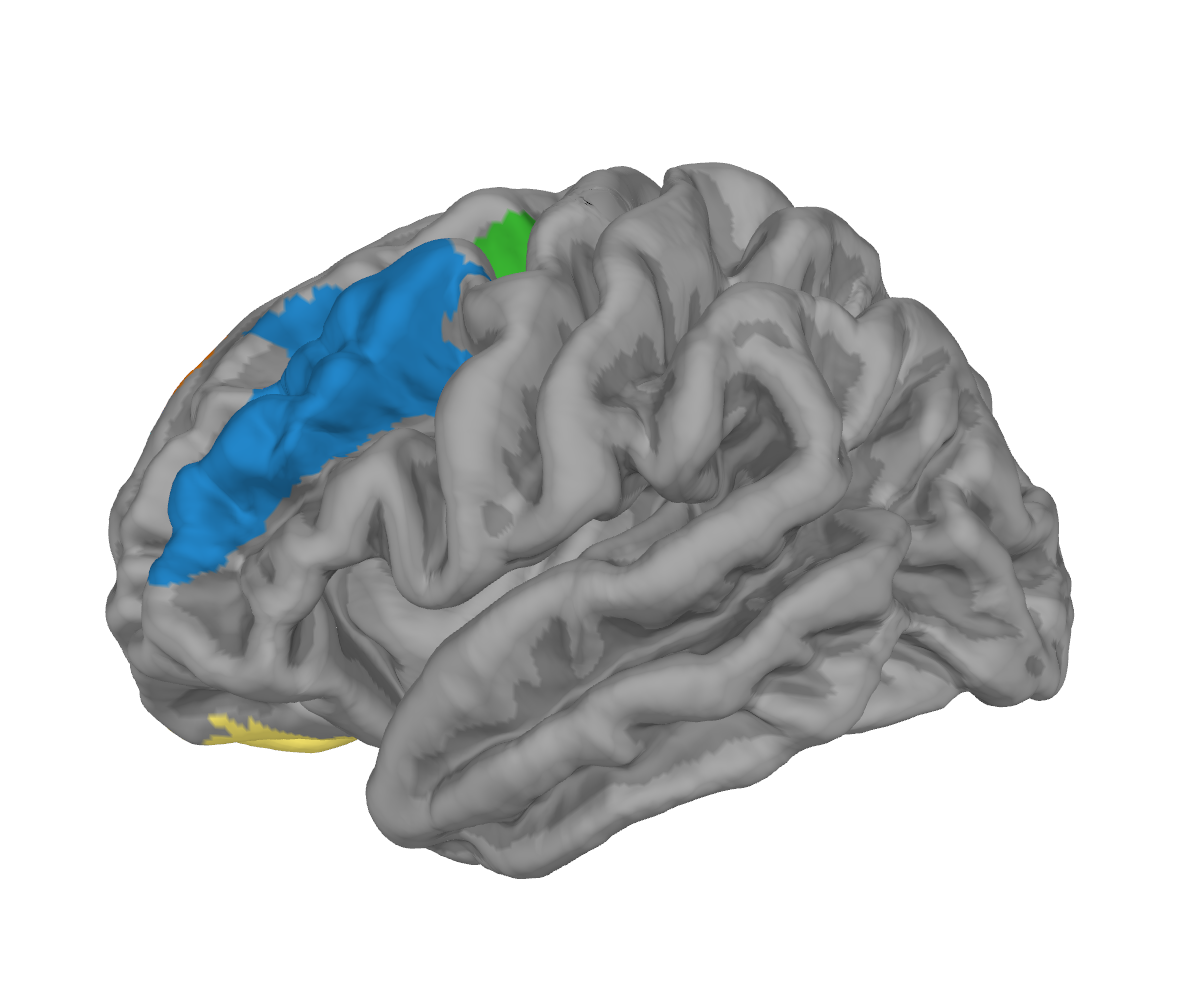
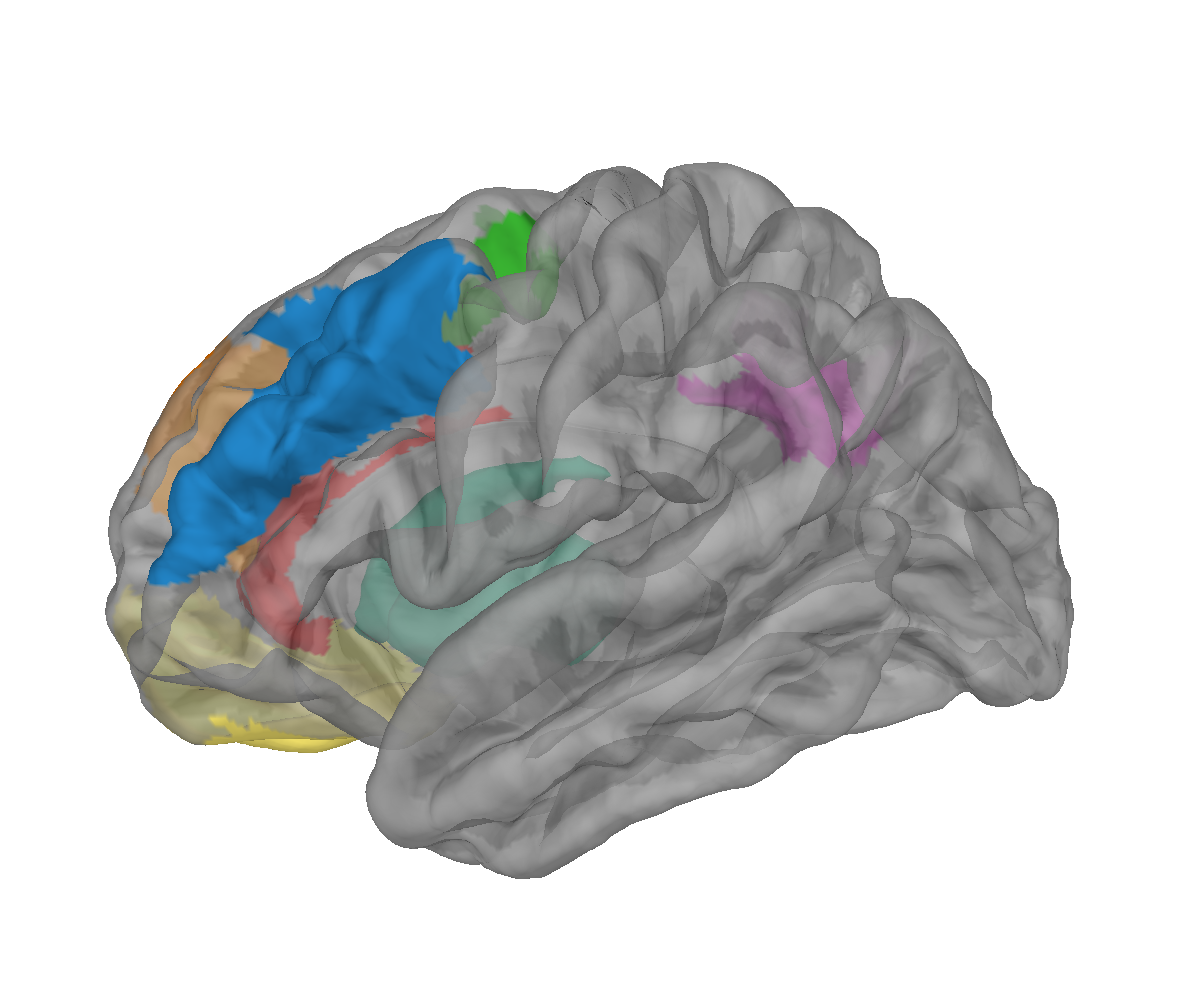
update legend order

diff --git a/src/analysis/vis/brain_figure_glasser_separate_svgs_lateral_medial_view_less_bold.py b/src/analysis/vis/brain_figure_glasser_separate_svgs_lateral_medial_view_less_bold.py
@@ -203,7 +203,7 @@ def soften_lighting(brain):
 # Cortex transparency: 1.0 = fully opaque (deep structures hidden),
 # lower = see-through. ~0.3–0.45 lets the basal ganglia show through
 # while the opaque ROI fills stay bold.
-BRAIN_ALPHA = 0.4
+BRAIN_ALPHA = 0.7
 
 
 def make_and_save_view(hemi, view, basename):
@@ -303,7 +303,7 @@ if __name__ == '__main__':
         'Basal Ganglia': 'Basal Ganglia',
     }
 
-    roi_order = ['dlPFC', 'ACC', 'preSMA', 'dmPFC', 'vmPFC', 'precuneus', 'Basal Ganglia']
+    roi_order = ['dlPFC', 'preSMA', 'vmPFC', 'precuneus', 'dmPFC', 'ACC', 'Basal Ganglia']
 
     patches = [
         mpatches.Patch(